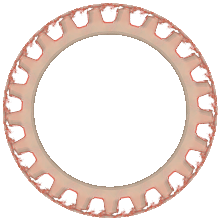
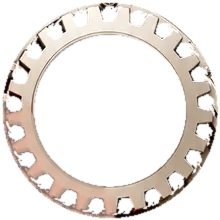
Machine animation: no red stains or dark ring while the gears turn
- A variable from the smudge cleanup reused the name 'redness' for a
  different measure, which broke every later step that read it: the
  silver gears came out as a flat pinkish average, the fill behind the red
  gear lost its interior, and the inlet glows used the wrong mask. Renamed.
- Behind the red gear, the machine's real interior (lit red by the gear)
  is carried round from the gaps, never the teeth or flashes, so nothing
  red stays still and there is no flat dark ring.
- The four silver gears are now the art's own gears too: the shared tooth
  outline, the art's metal, the averaged tooth only where the red gear
  hides them.
- The red bloom layer over the central gear is gone; it tinted the metal.
- tools/machine/check_animation.py freezes the turn on desktop and phone
  and measures new red and new black against the machine at rest.

Claude-Session: https://claude.ai/code/session_01PbAnrJaT2h2NzokuXUFqJZ

diff --git a/components/growth-machine/GrowthMachine.jsx b/components/growth-machine/GrowthMachine.jsx
@@ -20,7 +20,7 @@
  * along the shaft to the flash at the central gear; the gear turns once and
  * the function gears answer it; light runs from the gear's other flash along
  * the outlet shaft, the outlet's innard lights, the outlet pipes energise and
- * the outcome cards light; then it settles with a little warmth left on. Reduced motion shows the settled
+ * the outcome cards light; then it settles with the inlet rings softly lit. Reduced motion shows the settled
  * state without movement. Without JavaScript it is the static machine.
  */
 import { useEffect, useRef } from 'react';
@@ -109,7 +109,6 @@ function Stage({ kind }) {
           <img className={styles.layer} style={box(m.rig)} src={src('rig-front')} alt="" />
         </div>
 
-        <img className={`${styles.layer} ${styles.warm}`} style={box(m.warm)} src={src('warm')} alt="" aria-hidden="true" />
         <img
           className={`${styles.layer} ${styles.innard}`}
           style={{ ...box(m.innardIn), '--d': `${T.innardIn}s` }}

diff --git a/components/growth-machine/GrowthMachine.module.css b/components/growth-machine/GrowthMachine.module.css
@@ -229,12 +229,6 @@
   to { opacity: 0.35; }
 }
 
-.warm {
-  opacity: 0;
-  mix-blend-mode: screen;
-  pointer-events: none;
-}
-
 /* ---------------------------------------------------------------- arc labels */
 
 .arcs {
@@ -393,12 +387,6 @@
   --turn: 360deg;
 }
 
-.running .warm {
-  animation:
-    warm-up 0.9s ease-out var(--gears) both,
-    warm-settle 1.3s ease-in-out var(--settle) forwards;
-}
-
 @keyframes light-on {
   from { opacity: 0; }
   to { opacity: 1; }
@@ -445,16 +433,6 @@
   to { transform: rotate(var(--turn)); }
 }
 
-@keyframes warm-up {
-  from { opacity: 0; }
-  to { opacity: 0.35; }
-}
-
-@keyframes warm-settle {
-  from { opacity: 0.35; }
-  to { opacity: 0; }
-}
-
 /* Reduced motion: the settled state, no movement. */
 .settled .cardIn::before,
 .settled .cardIn::after {
@@ -474,10 +452,6 @@
 .settled .core {
   opacity: 0.16;
   stroke-dashoffset: 0;
-}
-
-.settled .warm {
-  opacity: 0;
 }
 
 @media (prefers-reduced-motion: reduce) {

diff --git a/tools/machine/build_machine.py b/tools/machine/build_machine.py
@@ -23,7 +23,8 @@ What it makes, per artwork:
                 a static front layer for the glows and brackets that sit in
                 front of the gears. At rest the page shows body.webp, so the
                 resting machine is pixel-faithful to the approved art.
-  warm.webp     A warm bloom of the central gear for the "engaged" state.
+  innard-*.webp The red rings inside the inlet and outlet flanges, which
+                light as the energy passes through.
 
 and the manifest: canvas size, crop, card boxes, gear centres and tooth
 counts, the nameplate, and the centre-lines of every pipe and shaft (traced
@@ -628,9 +629,9 @@ def build(kind, cfg):
     # Drop them where they are clear of the machine's solid parts; the red
     # glow round the pipes (strongly red) is kept.
     Fc = np.clip(F, 0, 255)
-    redness = Fc[..., 0] - Fc[..., 1:].max(2)
+    red_f = Fc[..., 0] - Fc[..., 1:].max(2)
     away = cv2.distanceTransform((A < 0.9).astype(np.uint8), cv2.DIST_L2, 5) > 6
-    haze = (A < 0.1) & (redness < 70) & away
+    haze = (A < 0.1) & (red_f < 70) & away
     haze = cv2.GaussianBlur(haze.astype(np.float32), (0, 0), 1.5)
     A = A * (1 - np.clip(haze * 1.6, 0, 1))
 
@@ -716,6 +717,13 @@ def build(kind, cfg):
             alpha_t[rs < rs[toothy.min()]] = 1
             alpha_t *= np.clip((tip - rs) / 1.5, 0, 1)[:, None]
             tooth = alpha_t > 0.5
+            # silver only: red in the averaged tooth is the red gear's glow
+            # caught at the tooth edges, and would turn as a red fringe, so
+            # it becomes the same brightness in silver
+            red_t = T[..., 0] - np.maximum(T[..., 1], T[..., 2])
+            wr = np.clip((red_t - 50) / 30, 0, 1)[..., None]
+            lum_T = T.mean(-1, keepdims=True)
+            T = T * (1 - wr) + (lum_T * np.array([1.1, 1.0, 0.9])) * wr
         prepared.append((g, P, rs, th, T, alpha_t, tooth))
 
     # base: fill each band's teeth with what is behind them (red first, it is on top)
@@ -723,25 +731,14 @@ def build(kind, cfg):
         Pb, _, _ = polar(base, g["c"], rs[0], rs[-1] + 0.5, len(th))
         keep = ~cv2.dilate(tooth.astype(np.uint8), np.ones((3, 9), np.uint8)).astype(bool)
         if g["red"]:
-            # Behind the red teeth is the dark interior of the machine. The
-            # gaps also show bits of the function gears, which the grey rings
-            # redraw themselves, so use the plain interior tone per radius.
-            # sample only gaps away from the function gears: those show the
-            # warm, dark interior, not silver teeth
-            thg = np.linspace(0, 2 * np.pi, Pb.shape[1], endpoint=False)
-            px = g["c"][0] + rs[:, None] * np.cos(thg)[None]
-            py = g["c"][1] + rs[:, None] * np.sin(thg)[None]
-            clear = keep.copy()
-            for o in all_gears:
-                if not o["red"]:
-                    clear &= np.hypot(px - o["c"][0], py - o["c"][1]) > o["band"][1] + 4
-            masked = np.where(clear[..., None], Pb, np.nan)
-            tone = np.stack([np.nanmedian(masked[i], axis=0) if clear[i].any() else Pb[i].mean(0) for i in range(Pb.shape[0])])
-            tone = np.nan_to_num(tone, nan=50.0)
-            # the whole band, gaps included: any of the art kept here (the
-            # shaft flashes, with teeth round them) would stay still while
-            # the gear turns over it
-            filled = np.broadcast_to(tone[:, None, :], Pb.shape).copy()
+            # behind the gear is the machine's interior, lit red by the gear:
+            # carry the real interior seen in the gaps round the ring, never
+            # the teeth themselves (solid gear red, with a margin), which
+            # would stay still while the gear turns over them
+            Prb, _, _ = polar(redness, g["c"], rs[0], rs[-1] + 0.5, len(th))
+            gear_red = cv2.dilate(((Prb > 0.55) | tooth).astype(np.uint8), np.ones((5, 11), np.uint8)).astype(bool)
+            seen = ~gear_red
+            filled = fill_along_theta(Pb, seen)
         else:
             filled = fill_along_theta(Pb, keep)
         r_out = g["band"][1] + 2
@@ -779,9 +776,20 @@ def build(kind, cfg):
             rgb = sub * w[..., None] + tcol * (1 - w[..., None])
             a = np.clip(cv2.GaussianBlur(shape, (0, 0), 0.6), 0, 1)
         else:
-            rgb, inside = unpolar(T, g["c"], rs, th, (H, W), box)
-            a, _ = unpolar(alpha_t, g["c"], rs, th, (H, W), box)
-            a = np.where(inside, a, 0)
+            # A function gear is also the art's own gear: the shared tooth
+            # outline, the art's metal wherever it shows, and the median
+            # tooth only where the red gear hides it (where they mesh).
+            bx0, by0, bx1, by1 = box
+            sub = clean[by0:by1, bx0:bx1].astype(np.float32)
+            shape, inside = unpolar(alpha_t, g["c"], rs, th, (H, W), box)
+            shape = np.where(inside, shape, 0).astype(np.float32)
+            tcol, _ = unpolar(T, g["c"], rs, th, (H, W), box)
+            sy, sx = np.mgrid[by0:by1, bx0:bx1]
+            rc = red_cfg["c"]
+            hidden = (np.hypot(sx - rc[0], sy - rc[1]) < red_cfg["band"][1] + 3) | (redness[by0:by1, bx0:bx1] > 0.1)
+            w = np.clip(cv2.GaussianBlur((~hidden).astype(np.float32), (0, 0), 1.0), 0, 1)
+            rgb = sub * w[..., None] + tcol * (1 - w[..., None])
+            a = np.clip(cv2.GaussianBlur((shape > 0.5).astype(np.float32), (0, 0), 0.6), 0, 1)
         layers[g["id"]] = (box, np.dstack([rgb, a * 255]))
         gears.append({"id": g["id"], "N": g["N"], "c": [round(g["c"][0] - x0, 2), round(g["c"][1] - y0, 2)],
                       "box": [box[0] - x0, box[1] - y0, box[2] - box[0], box[3] - box[1]],
@@ -841,17 +849,6 @@ def build(kind, cfg):
     save_webp(os.path.join(out_dir, "rig-front.webp"), front[ry0:ry1, rx0:rx1], 101)
     for gid, (box, rgba) in layers.items():
         save_webp(os.path.join(out_dir, f"gear-{gid}.webp"), rgba, 101)
-
-    # ---- 4. warm bloom of the central gear (screen-blended on the page)
-    rc = red_cfg["c"]
-    d = np.hypot(xx - rc[0], yy - rc[1])
-    ring = ((d > red_cfg["band"][0] - 6) & (d < red_cfg["band"][1] + 4)).astype(np.float32) * np.clip(redness * 1.5, 0, 1)
-    bloom = cv2.GaussianBlur(ring, (0, 0), 6) * 0.8 + cv2.GaussianBlur(ring, (0, 0), 16) * 0.3
-    bloom = np.clip(bloom, 0, 1)
-    warm = np.dstack([np.full((H, W), 255.0), np.full((H, W), 78.0), np.full((H, W), 44.0), bloom * 255])
-    pad = red_cfg["band"][1] + 60
-    wb = (int(rc[0] - pad), int(rc[1] - pad), int(rc[0] + pad), int(rc[1] + pad))
-    save_webp(os.path.join(out_dir, "warm.webp"), warm[wb[1]:wb[3], wb[0]:wb[2]], 85)
 
     # ---- 4b. the flanges' red innards, as glow layers (screen-blended)
     innards = {}
@@ -917,7 +914,6 @@ def build(kind, cfg):
         "plate": {"cx": round(pcx - x0, 2), "cy": round(pcy - y0, 2), "r": pr},
         "logo": logo,
         "rig": rig_box,
-        "warm": [wb[0] - x0, wb[1] - y0, wb[2] - wb[0], wb[3] - wb[1]],
         "gears": gears,
         "pipesIn": pipes_in,
         "pipesOut": pipes_out,

diff --git a/tools/machine/check_animation.py b/tools/machine/check_animation.py
@@ -1,0 +1,55 @@
+"""Cleanliness check for the hero machine's animation.
+
+With a local server on :3123 (npx next start -p 3123), freezes the animation
+at moments through the gear turn on desktop and phone and compares each with
+the machine at rest. Prints, per frame:
+  new-red-outside-red-gear  red that appears anywhere but the turning red gear
+                            (stains); should stay near 0
+  new-black                 pixels gone near-black inside the gear rings
+                            (holes); moving tooth gaps account for some
+Writes full.png: rest and two moments mid-turn, desktop and phone, to look at.
+Run after every change to tools/machine or the machine's CSS.
+
+    python3 tools/machine/check_animation.py
+"""
+import json
+from playwright.sync_api import sync_playwright
+from PIL import Image
+import numpy as np
+m=json.load(open('/home/user/thegrowthmachine_v2/components/growth-machine/manifest.json'))
+B={'desktop':((105,142),(63,90)),'mobile':((126,170),(76,108))}
+with sync_playwright() as p:
+    b=p.chromium.launch(executable_path='/opt/pw-browsers/chromium')
+    crops=[]
+    for kind,vp,scroll in [('desktop',(1440,1300),0),('mobile',(390,844),300)]:
+        pg=b.new_page(viewport={'width':vp[0],'height':vp[1]},device_scale_factor=2); pg.goto('http://localhost:3123/'); pg.wait_for_timeout(2500)
+        pg.evaluate(f"scrollTo(0,{scroll})"); pg.wait_for_timeout(1200)
+        pg.add_style_tag(content="figure svg[class*=flow], figure [class*=card], figure img[src*=innard]{visibility:hidden!important}")
+        bb=pg.locator('figure [class*=stage]').locator('visible=true').first.locator('[class*=canvas]').first.bounding_box()
+        fr={}
+        for t in [99999,1950,2100,2300,2500,2700,2900,3150,3400]:
+            pg.evaluate(f"document.getAnimations().forEach(a=>{{a.pause(); a.currentTime={t};}})"); pg.wait_for_timeout(120)
+            pg.screenshot(path=f'cr-{t}.png',clip=bb); fr[t]=np.array(Image.open(f'cr-{t}.png').convert('RGB')).astype(int)
+        pg.close()
+        rest=fr[99999]; H,W,_=rest.shape; k=W/m[kind]['size'][0]; yy,xx=np.mgrid[:H,:W]
+        allz=np.zeros((H,W),bool); redz=np.zeros((H,W),bool)
+        for g in m[kind]['gears']:
+            d=np.hypot(xx-g['c'][0]*k,yy-g['c'][1]*k)/k
+            band=B[kind][0] if g['id']=='red' else B[kind][1]
+            z=(d>band[0]-4)&(d<band[1]+4); allz|=z
+            if g['id']=='red': redz|=z
+        greyz=allz&~redz
+        red=lambda a:a[...,0]-np.maximum(a[...,1],a[...,2])
+        lum=lambda a:a.mean(-1)
+        for t in [1950,2100,2300,2500,2700,2900,3150,3400]:
+            f=fr[t]
+            newred=int(((red(f)>70)&(red(rest)<40)&~redz).sum())  # red appearing anywhere but the red gear ring
+            dark=int(((lum(f)<35)&(lum(rest)>70)&allz).sum())     # holes / black patches in the gear rings
+            print(f'{kind} t={t} new-red-outside-red-gear={newred} new-black={dark}')
+        rg=[g for g in m[kind]['gears'] if g['id']=='red'][0]; cx,cy=rg['c'][0]*k,rg['c'][1]*k; R=B[kind][0][1]*k*1.9
+        for t in [99999,2300,2700]:
+            crops.append(Image.fromarray(fr[t].astype(np.uint8)).crop((int(cx-R),int(cy-R),int(cx+R),int(cy+R))).resize((600,600)))
+    b.close()
+o=Image.new('RGB',(1820,1210),'white')
+for i,c in enumerate(crops): o.paste(c,((i%3)*610,(i//3)*610))
+o.save('full.png')
